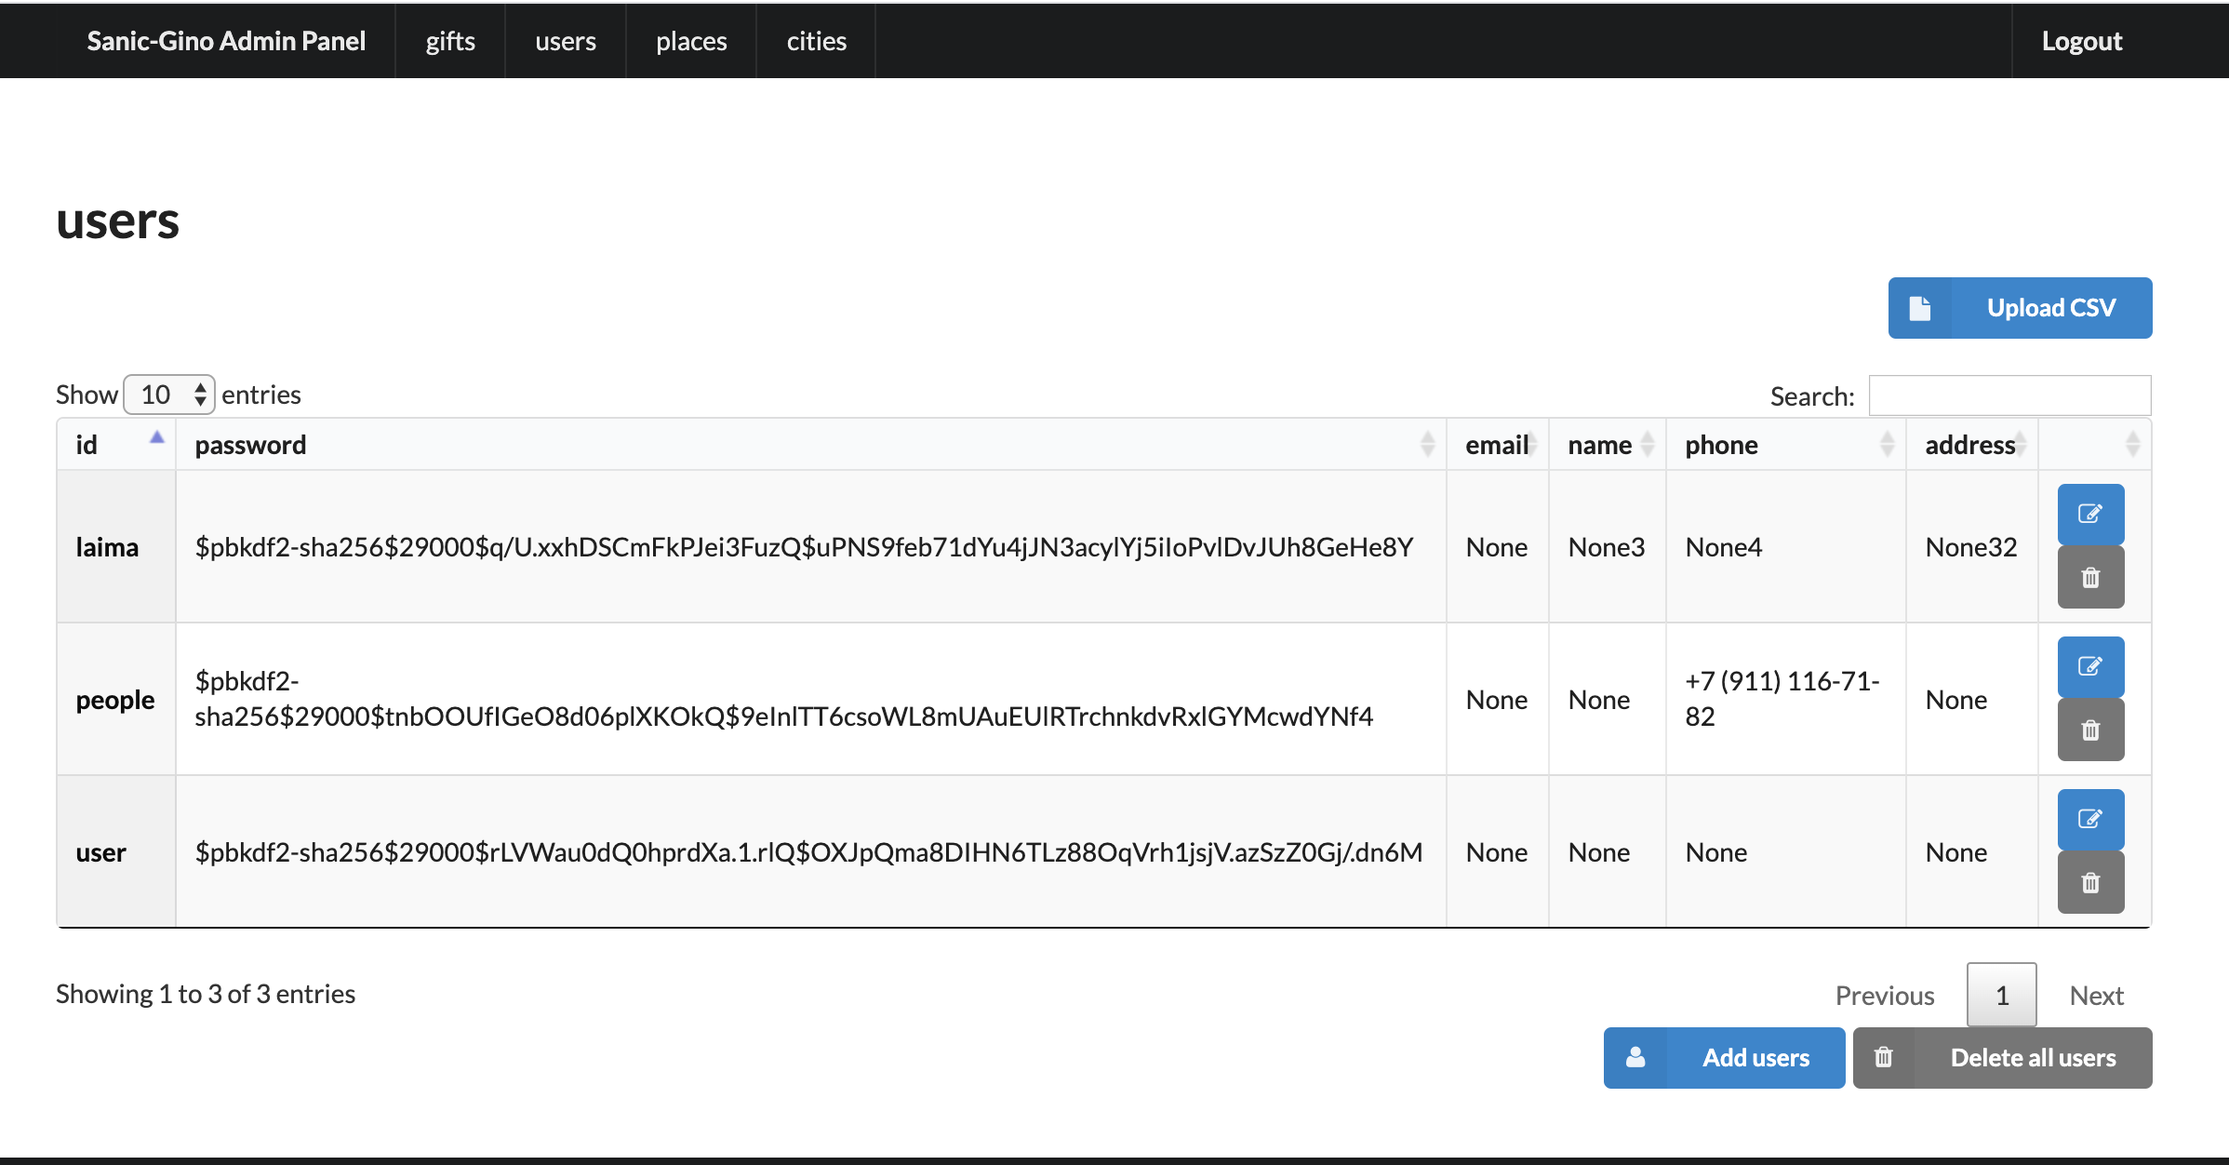
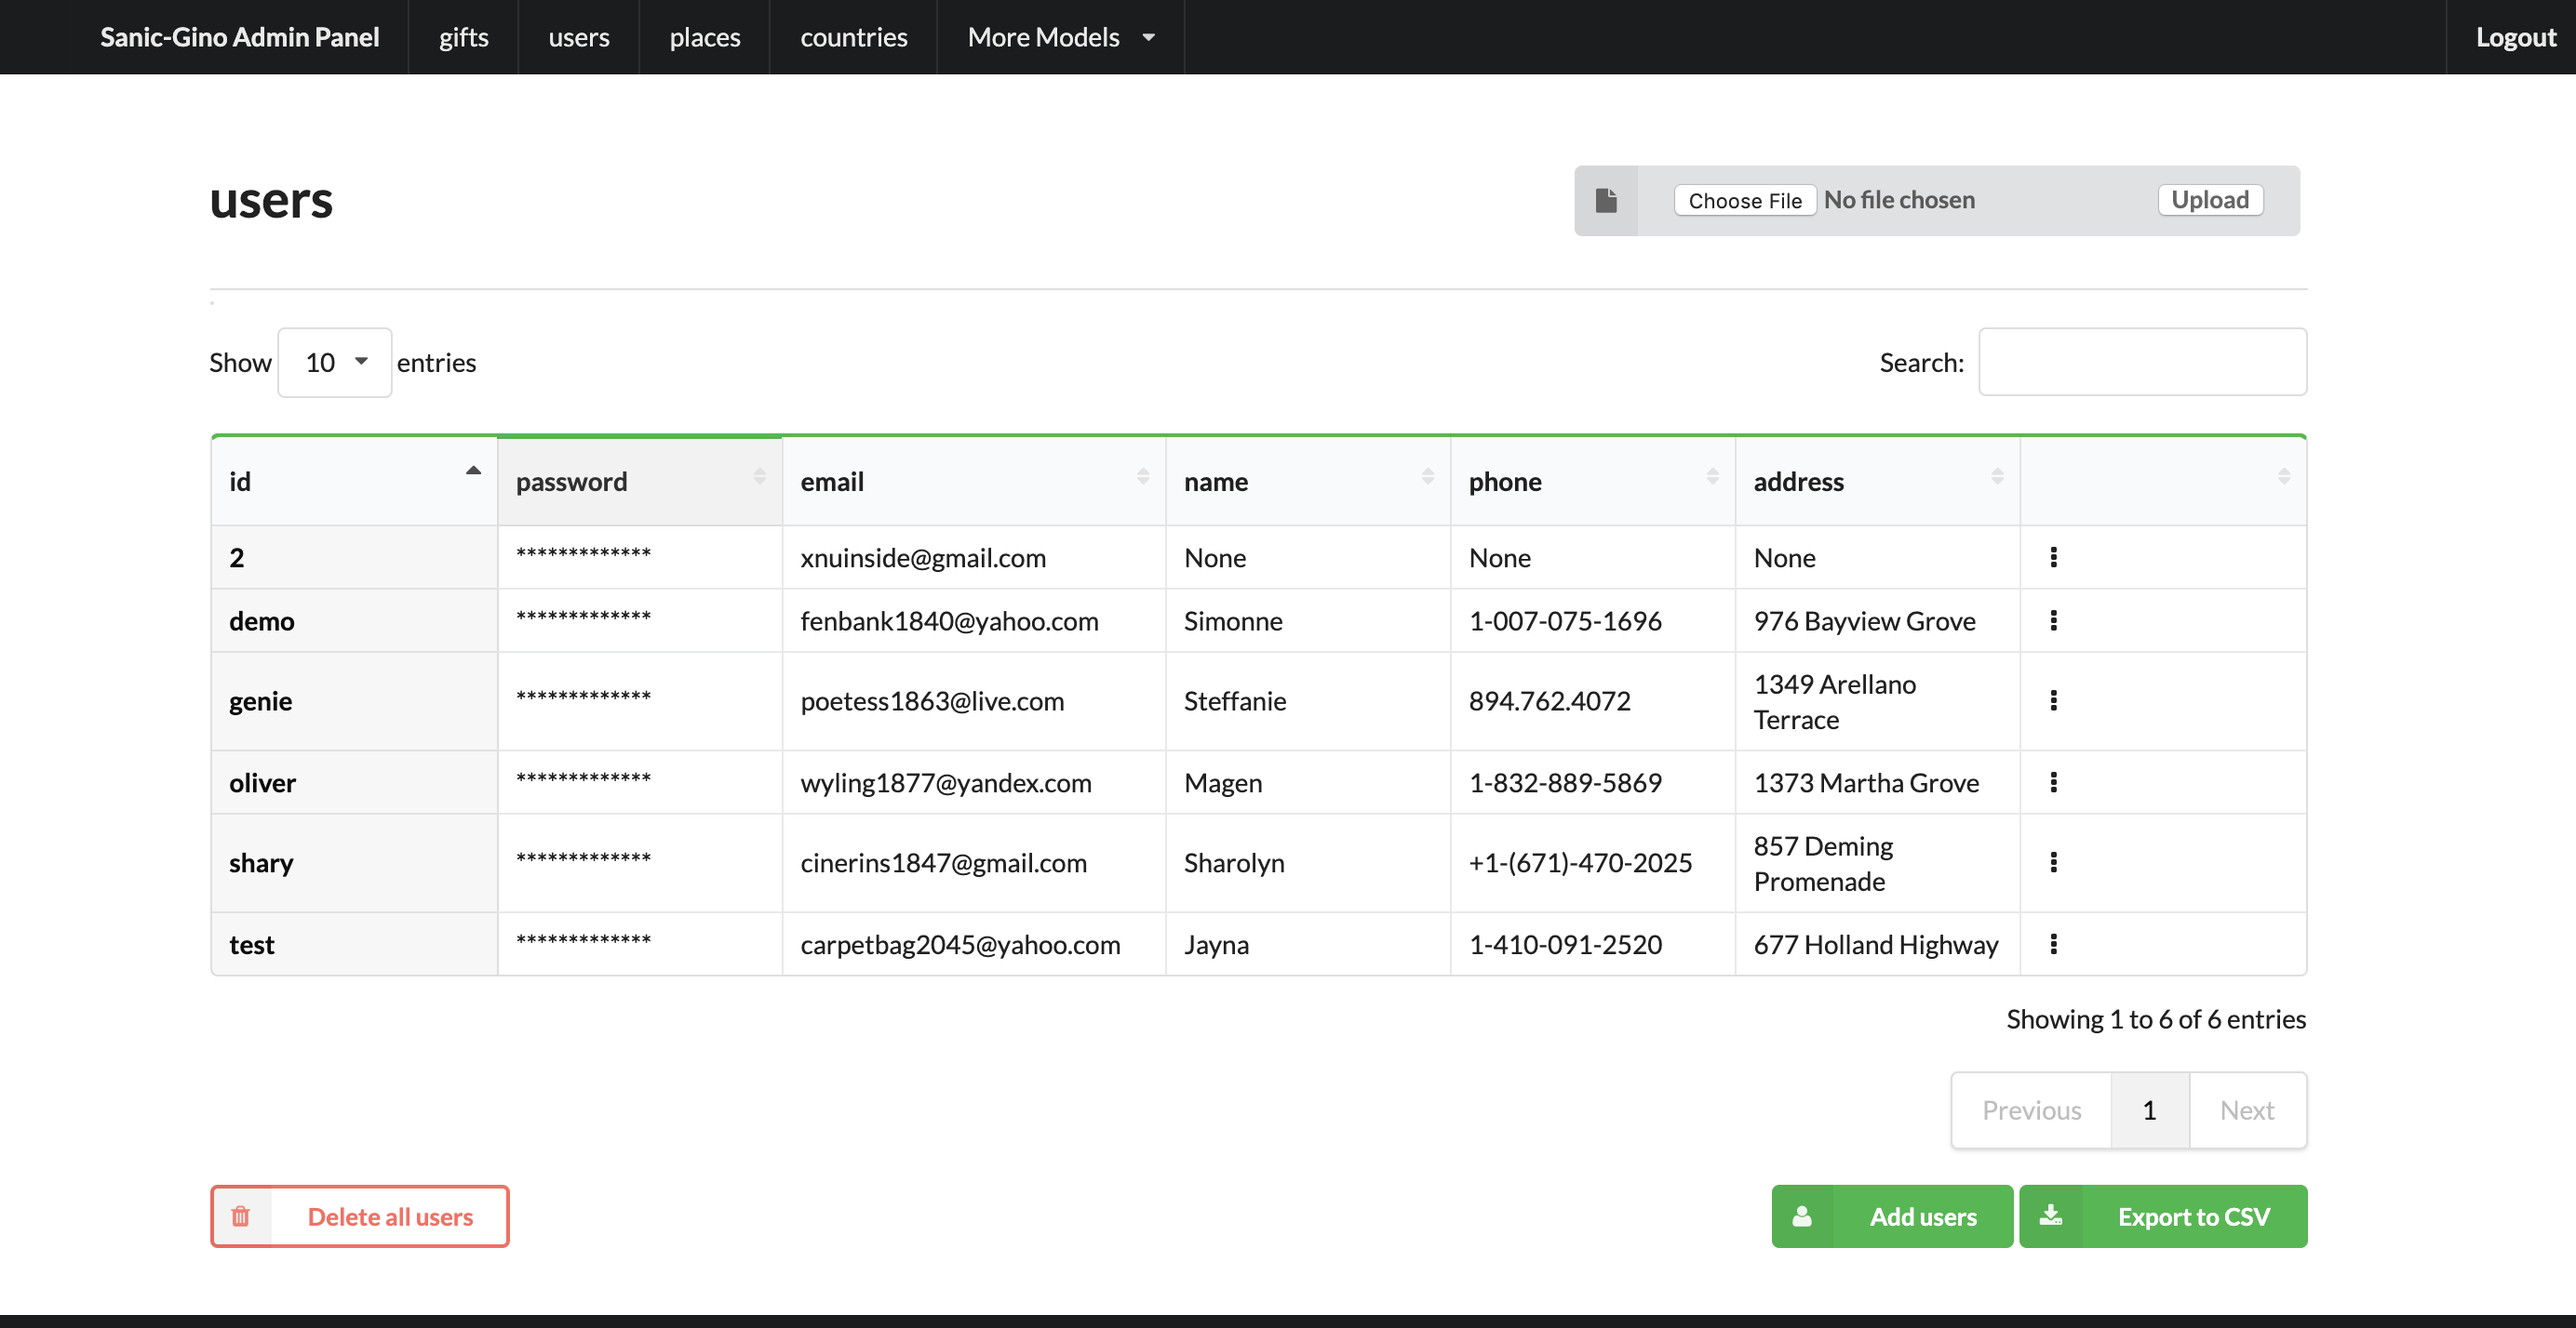
update templates, added export to csv

diff --git a/gino_admin/templates/model_view.html b/gino_admin/templates/model_view.html
@@ -2,10 +2,20 @@
 
 {% block title %}{{model}}}{% endblock %}
 {% block body %}
-<h1>{{model}}</h1>
-
+<div id="header_grid" class="ui grid">
+    <div class="sixteen column row">
+        <div class="ten wide column">
+<h1>{{model}}</h1></div>
+        <div class="six wide column right aligned content">
 {% include 'file_upload.html' %}
-
+        </div>
+    </div>
+    <div class="ui divider"></div>
+</div>
+<div id="grid" class="ui grid">
+    <div class="sixteen column row" id="row_filters">
+    </div>
+</div>
 {% include 'data_table.html' %}
 
 {% for cat, msg in get_flashed_messages(with_categories=true) %}
@@ -15,6 +25,12 @@
 {% for cat, msg in get_flashed_messages(with_categories=true) %}
       <div class="ui {{ cat }} message"><p>{{ msg }}</p></div>
       {% endfor %}
+
+<div id="grid_footer" class="ui grid right aligned content">
+    <div class="three column " id="grid_footer_row">
+    </div>
+</div>
+
 <div class="ui basic modal">
   <div class="ui icon header">
     <i class="trash icon"></i> Delete all {{model}}
@@ -34,19 +50,54 @@
 </div>
 <!-- end of modal -->
 
-    <button id="delete_all" class="ui right floated small grey labeled icon button" type="button">
-    <i class="trash icon"></i>Delete all {{model}}</button>
-
-    <button id="add" class="ui right floated small primary labeled icon button" type="button">
+    <button id="add" class="ui right floated small green labeled icon button" type="button">
         <i class="user icon"></i>
         <a style="color:#fff;" href="{{url_prefix}}/{{model.lower()}}/add">Add {{model}}</a>
     </button>
 
-
+    <button id="delete_all" class="ui left floated small red inverted labeled icon button" type="button">
+    <i class="trash icon"></i>Delete all {{model}}</button>
 <script>
 $(document).ready( function () {
-    $('#table_id').DataTable();
+    $('#models_table').DataTable({
+    dom: 'Blfrtip',
+
+    buttons: [
+        {
+            extend: 'csvHtml5',
+            text: 'Export to csv',
+            filename: '{{model}}',
+            exportOptions: {
+                modifier: {
+                    search: 'none'
+                },
+
+                 columns: 'th:not(:last-child)'
+            }
+        }
+    ],
+initComplete: function () {
+    $('.buttons-csv').attr('id', 'buttons-csv')
+    $('#models_table_length').attr('class', 'dataTables_length twelve wide column')
+    $('#models_table_filter').attr('class','dataTables_filter ui form right aligned content four wide column')
+     $("#grid").appendTo("#models_table_wrapper");
+     $('#grid').insertBefore('#models_table');
+    $('#buttons-csv').attr('class','ui right floated five wide small green labeled icon button')
+    $('#buttons-csv').html('<i class="download icon"></i>Export to CSV')
+
+    $('#buttons-csv').insertBefore('#add');
+    $("#models_table_length").appendTo("#row_filters");
+    $("#models_table_filter").appendTo("#row_filters");
+    $('#grid_footer').insertAfter('#models_table');
+
+    $('#models_table_info').appendTo("#grid_footer_row");
+    $('<br>').appendTo("#grid_footer_row");
+    $('#models_table_paginate').appendTo("#grid_footer_row");
+    $('<br>').insertBefore("#models_table")
+}
 } );
+} );
+
 $(function(){
 	$("#delete_all").click(function(){
 		$(".ui.basic.modal").modal('show');
@@ -55,7 +106,6 @@ $(function(){
 		closable: true
 	});
 });
-
 </script>
 
 {% for cat, msg in get_flashed_messages(with_categories=true) %}

diff --git a/gino_admin/templates/app.html b/gino_admin/templates/app.html
@@ -12,10 +12,19 @@
 
     <script src="https://cdnjs.cloudflare.com/ajax/libs/jquery/3.1.1/jquery.min.js" integrity="sha256-hVVnYaiADRTO2PzUGmuLJr8BLUSjGIZsDYGmIJLv2b8=" crossorigin="anonymous"></script>
     <script src="https://cdnjs.cloudflare.com/ajax/libs/semantic-ui/2.2.7/semantic.min.js" integrity="sha256-flVaeawsBV96vCHiLmXn03IRJym7+ZfcLVvUWONCas8=" crossorigin="anonymous"></script>
+ <link rel="stylesheet" href="https://cdnjs.cloudflare.com/ajax/libs/semantic-ui/2.2.7/semantic.min.css" integrity="sha256-wT6CFc7EKRuf7uyVfi+MQNHUzojuHN2pSw0YWFt2K5E=" crossorigin="anonymous" />
+      <link rel="stylesheet" type="text/css" href="https://cdn.datatables.net/v/se/dt-1.10.20/b-1.6.1/b-html5-1.6.1/cr-1.5.2/r-2.2.3/sp-1.0.1/datatables.min.css" crossorigin="anonymous" />
+      <link rel="stylesheet" type="text/css" href="https://cdn.datatables.net/select/1.3.1/css/select.dataTables.min.css" crossorigin="anonymous" />
 
-   <script type="text/javascript" charset="utf8" src="https://cdn.datatables.net/1.10.20/js/jquery.dataTables.js"></script>
-    <link rel="stylesheet" href="https://cdnjs.cloudflare.com/ajax/libs/semantic-ui/2.2.7/semantic.min.css" integrity="sha256-wT6CFc7EKRuf7uyVfi+MQNHUzojuHN2pSw0YWFt2K5E=" crossorigin="anonymous" />
-   <link rel="stylesheet" type="text/css" href="https://cdn.datatables.net/1.10.20/css/jquery.dataTables.css">
+<script type="text/javascript" src="https://cdn.datatables.net/v/se/dt-1.10.20/b-1.6.1/b-html5-1.6.1/cr-1.5.2/r-2.2.3/sp-1.0.1/datatables.min.js" crossorigin="anonymous" ></script>
+
+<script type="text/javascript" language="javascript" src="https://cdn.datatables.net/buttons/1.5.6/js/buttons.html5.min.js" crossorigin="anonymous" ></script>
+
+<script type="text/javascript" language="javascript" src="https://cdn.datatables.net/buttons/1.5.6/js/buttons.print.min.js" crossorigin="anonymous" ></script>
+      <script type="text/javascript" language="javascript" src="https://cdn.datatables.net/buttons/1.5.6/js/dataTables.buttons.min.js" crossorigin="anonymous" ></script>
+
+<script type="text/javascript" language="javascript" src="https://cdnjs.cloudflare.com/ajax/libs/jszip/3.1.3/jszip.min.js" crossorigin="anonymous" ></script>
+
        <link rel="stylesheet" type="text/css" href="static/app.css">
 
     <style>

diff --git a/gino_admin/templates/data_table.html b/gino_admin/templates/data_table.html
@@ -1,9 +1,5 @@
 <!-- table for model view -->
-
-{% for cat, msg in get_flashed_messages(with_categories=true) %}
-      <div class="ui {{ cat }} message"><p>{{ msg }}</p></div>
-      {% endfor %}
-<table id="table_id" class="ui green padded compact sortable celled definition table">
+<table id="models_table" class="ui green padded compact sortable celled definition table">
     <!-- header row -->
     <thead class="full-width">
         <tr>{% for column_name  in columns %}
@@ -31,3 +27,4 @@
     </tbody>
 </table>
 <br>
+

diff --git a/gino_admin/templates/file_upload.html b/gino_admin/templates/file_upload.html
@@ -1,7 +1,6 @@
 <form action="{{url_prefix}}/{{model.lower()}}/upload/" method="post" enctype="multipart/form-data">
-<div class="ui right floated small labeled icon button">
+<div class="ui small labeled icon button">
 <input id='file_input' accept=".csv" type='file' name="file_names"/>
-    <i class="file alternate icon"></i><button type='submit' class="ui button">Upload</button>
+    <i class="file alternate icon"></i><button type='submit'>Upload</button>
 </div>
 </form>
-<br><br><br><br>

diff --git a/README.rst b/README.rst
@@ -2,6 +2,10 @@ gino_admin
 ----------
 Admin Panel for PostgreSQL DB with Gino ORM and Sanic (inspired by Flask-Admin)
 
+.. image:: https://github.com/xnuinside/gino_admin/blob/master/docs/img/table_view.png
+  :width: 250
+  :alt: Table view
+
 .. image:: https://github.com/xnuinside/gino_admin/blob/master/docs/img/copy_item.png
   :width: 250
   :alt: Features per row
@@ -64,6 +68,8 @@ Version 0.0.6 Updates (current master):
 2. Added 'Copy' option to DB row.
 3. Now errors showed correct in table view pages in process of Delete, Copy, CSV Upload
 4. Added possible to work without auth (for Debug purposes). Set env variable 'ADMIN_AUTH_DISABLE=True'
+5. Template updated
+6. Added export Table's Data to CSV
 
 
 Version 0.0.5 Updates:
